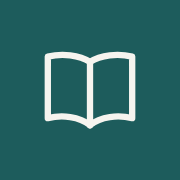
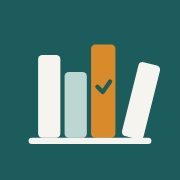
v6.0

Changed region(s): [[0.1389, 0.2222, 0.8889, 0.8056]]

diff --git a/admin.html b/admin.html
@@ -12,6 +12,7 @@
 <link rel="preconnect" href="https://fonts.gstatic.com" crossorigin>
 <link href="https://fonts.googleapis.com/css2?family=Literata:wght@400;600;700&family=Noto+Serif+Bengali:wght@400;600;700&display=swap" rel="stylesheet">
 <link rel="stylesheet" href="css/style.css">
+<link rel="icon" type="image/x-icon" href="favicon.ico">
 </head>
 <body>
 
@@ -36,7 +37,7 @@
   <header class="top adm-top">
     <div class="top-in">
       <a class="brand" href="index.html" aria-label="Reading Ledger: view the site" title="View the site">
-        <svg viewBox="0 0 32 32" fill="none" stroke="currentColor" stroke-width="1.8" stroke-linecap="round" stroke-linejoin="round" aria-hidden="true"><path d="M16 8C13 6 8 5.5 4 6.5V24c4-1 9-.5 12 2"/><path d="M16 8c3-2 8-2.5 12-1.5V24c-4-1-9-.5-12 2"/><path d="M16 8v18"/></svg>
+        <svg viewBox="0 0 32 32" fill="currentColor" aria-hidden="true"><rect x="4.5" y="8" width="4.5" height="16" rx="1"/><rect x="10" y="11.5" width="4.5" height="12.5" rx="1" opacity=".55"/><rect x="15.5" y="5.5" width="5" height="18.5" rx="1"/><rect x="22" y="9" width="4.5" height="15" rx="1" transform="rotate(13 24.2 24)"/><rect x="3" y="25.5" width="26" height="2" rx="1"/></svg>
       </a>
       <h1 class="adm-title">Dashboard</h1>
       <div class="adm-main">

diff --git a/index.html b/index.html
@@ -25,9 +25,9 @@
 
 <header class="top">
   <div class="top-in">
-    <!-- Simple line logo: an open book -->
+    <!-- Logo: books on a shelf (the same picture as the app icon) -->
     <a class="brand" href="#/" data-home aria-label="Reading Ledger, home">
-      <svg viewBox="0 0 32 32" fill="none" stroke="currentColor" stroke-width="1.8" stroke-linecap="round" stroke-linejoin="round" aria-hidden="true"><path d="M16 8C13 6 8 5.5 4 6.5V24c4-1 9-.5 12 2"/><path d="M16 8c3-2 8-2.5 12-1.5V24c-4-1-9-.5-12 2"/><path d="M16 8v18"/></svg>
+      <svg viewBox="0 0 32 32" fill="currentColor" aria-hidden="true"><rect x="4.5" y="8" width="4.5" height="16" rx="1"/><rect x="10" y="11.5" width="4.5" height="12.5" rx="1" opacity=".55"/><rect x="15.5" y="5.5" width="5" height="18.5" rx="1"/><rect x="22" y="9" width="4.5" height="15" rx="1" transform="rotate(13 24.2 24)"/><rect x="3" y="25.5" width="26" height="2" rx="1"/></svg>
     </a>
     <nav class="links" aria-label="Main">
       <!-- The small pictures show only on phones, where these links become a floating bar at the bottom.
